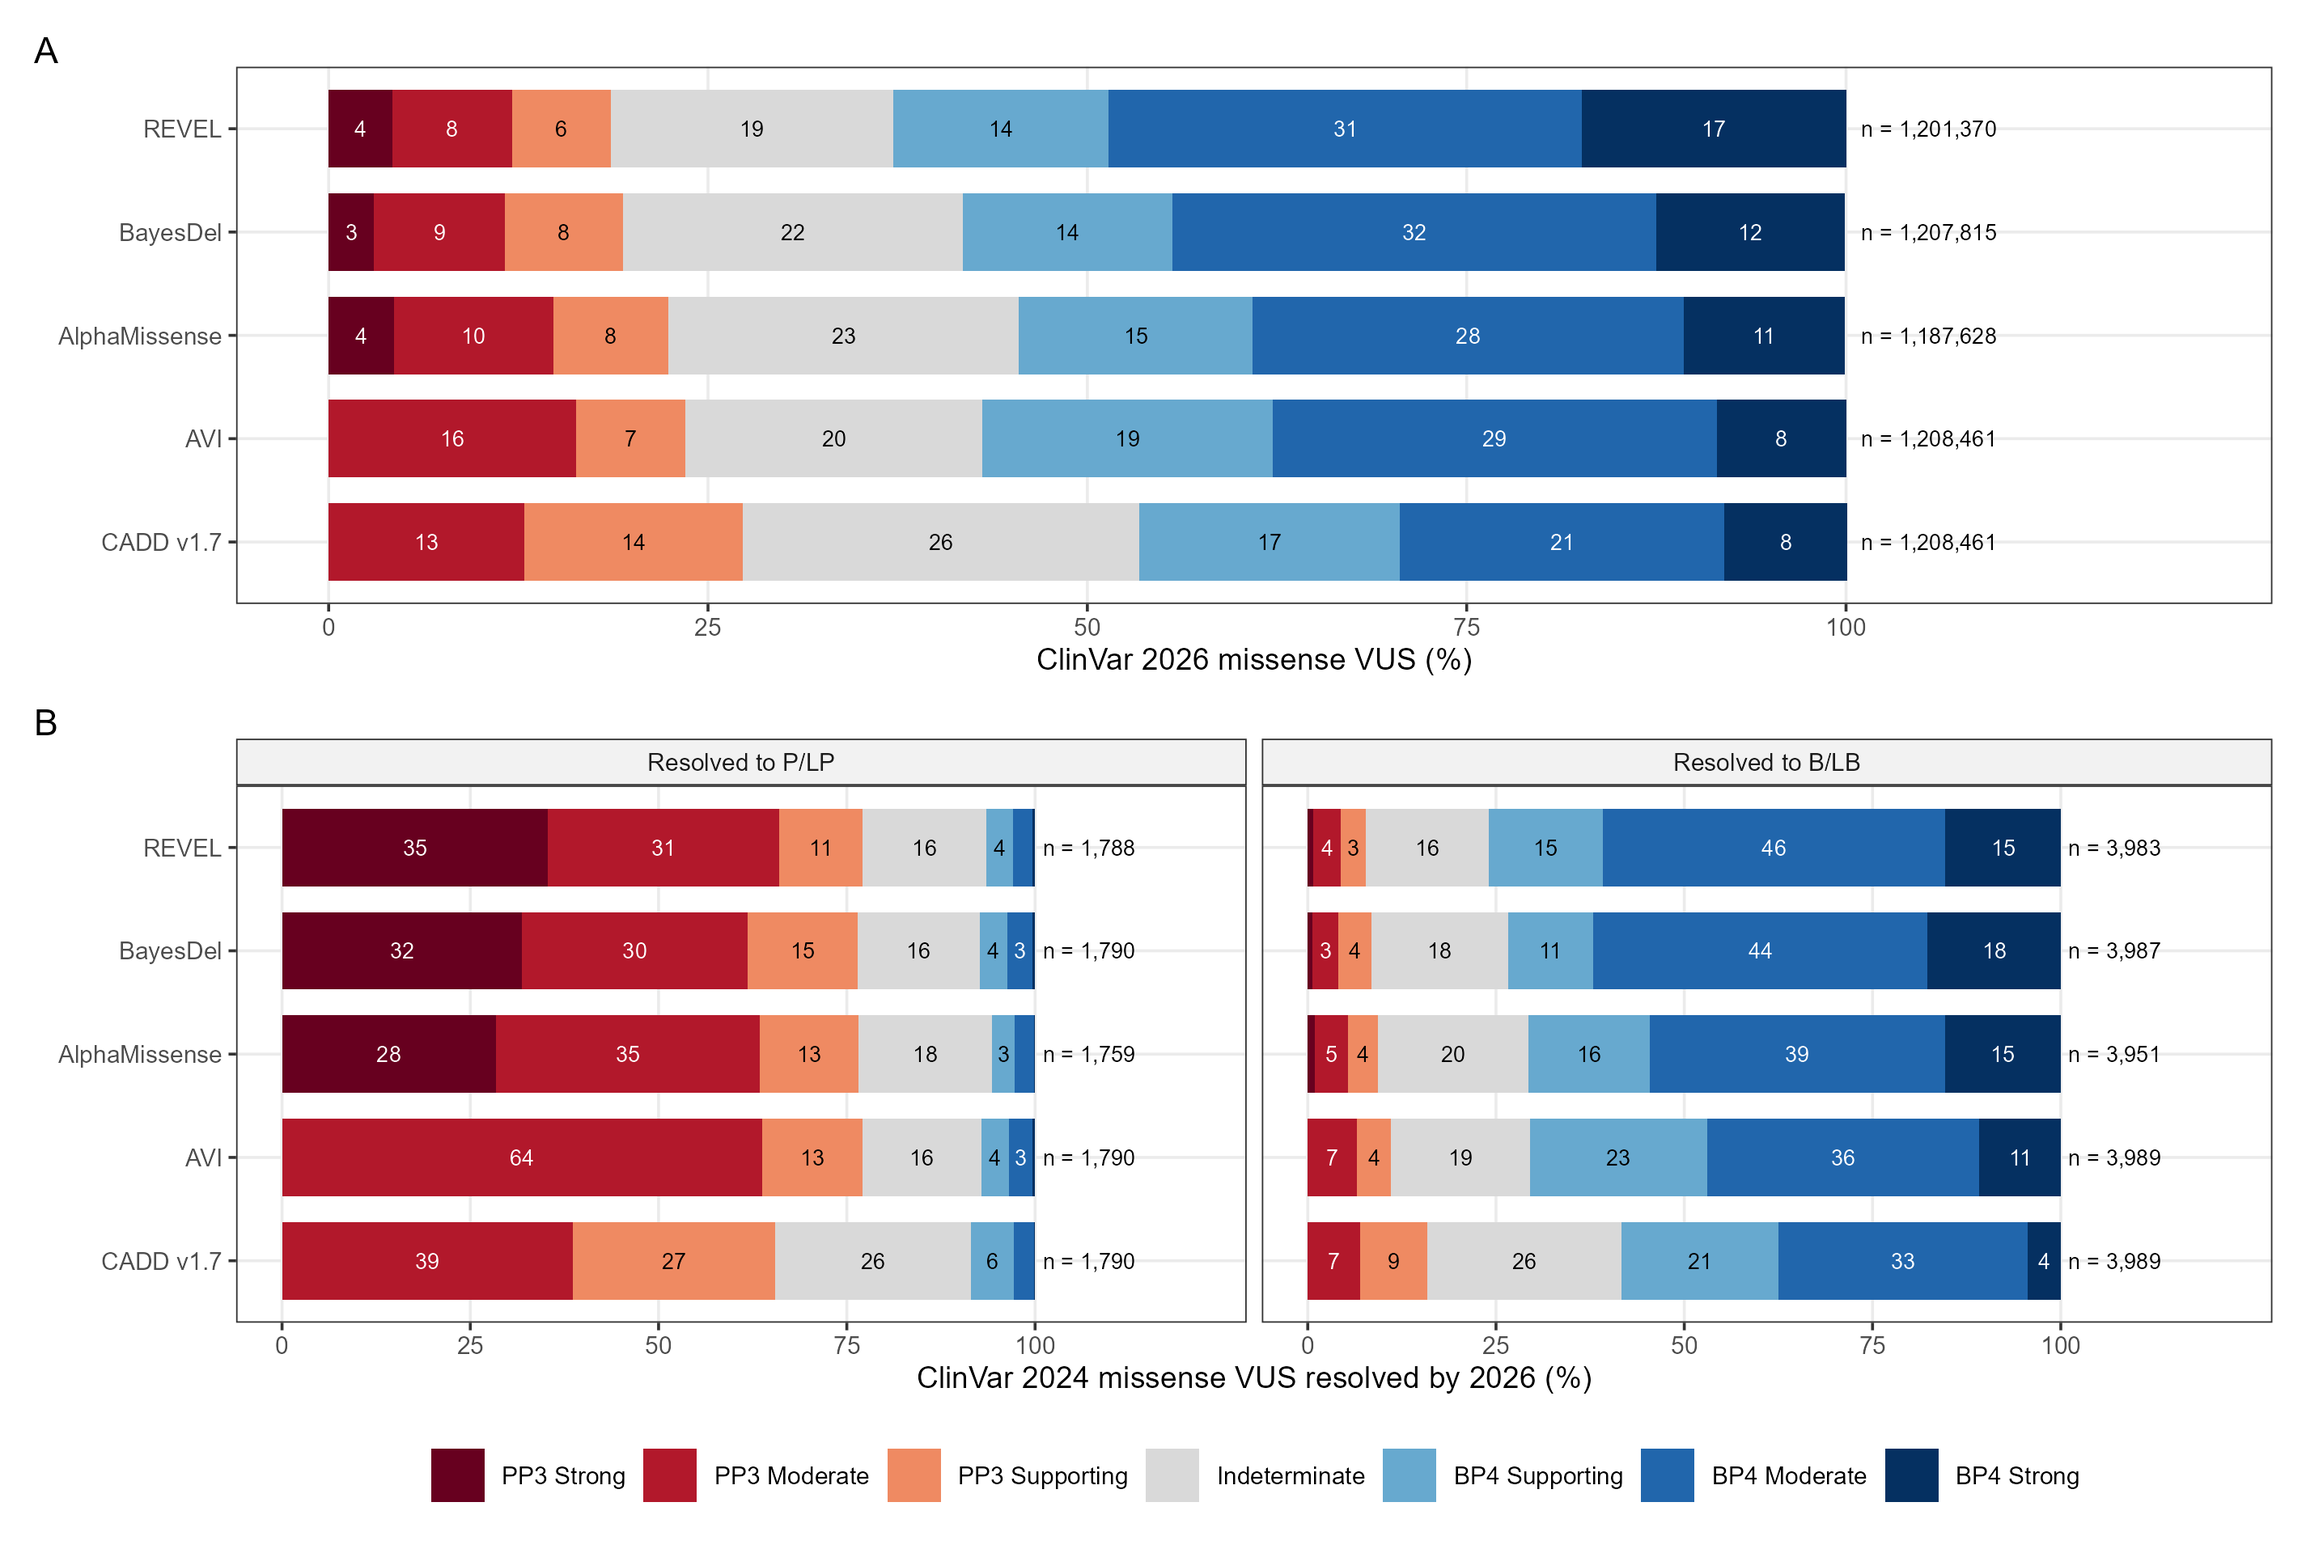
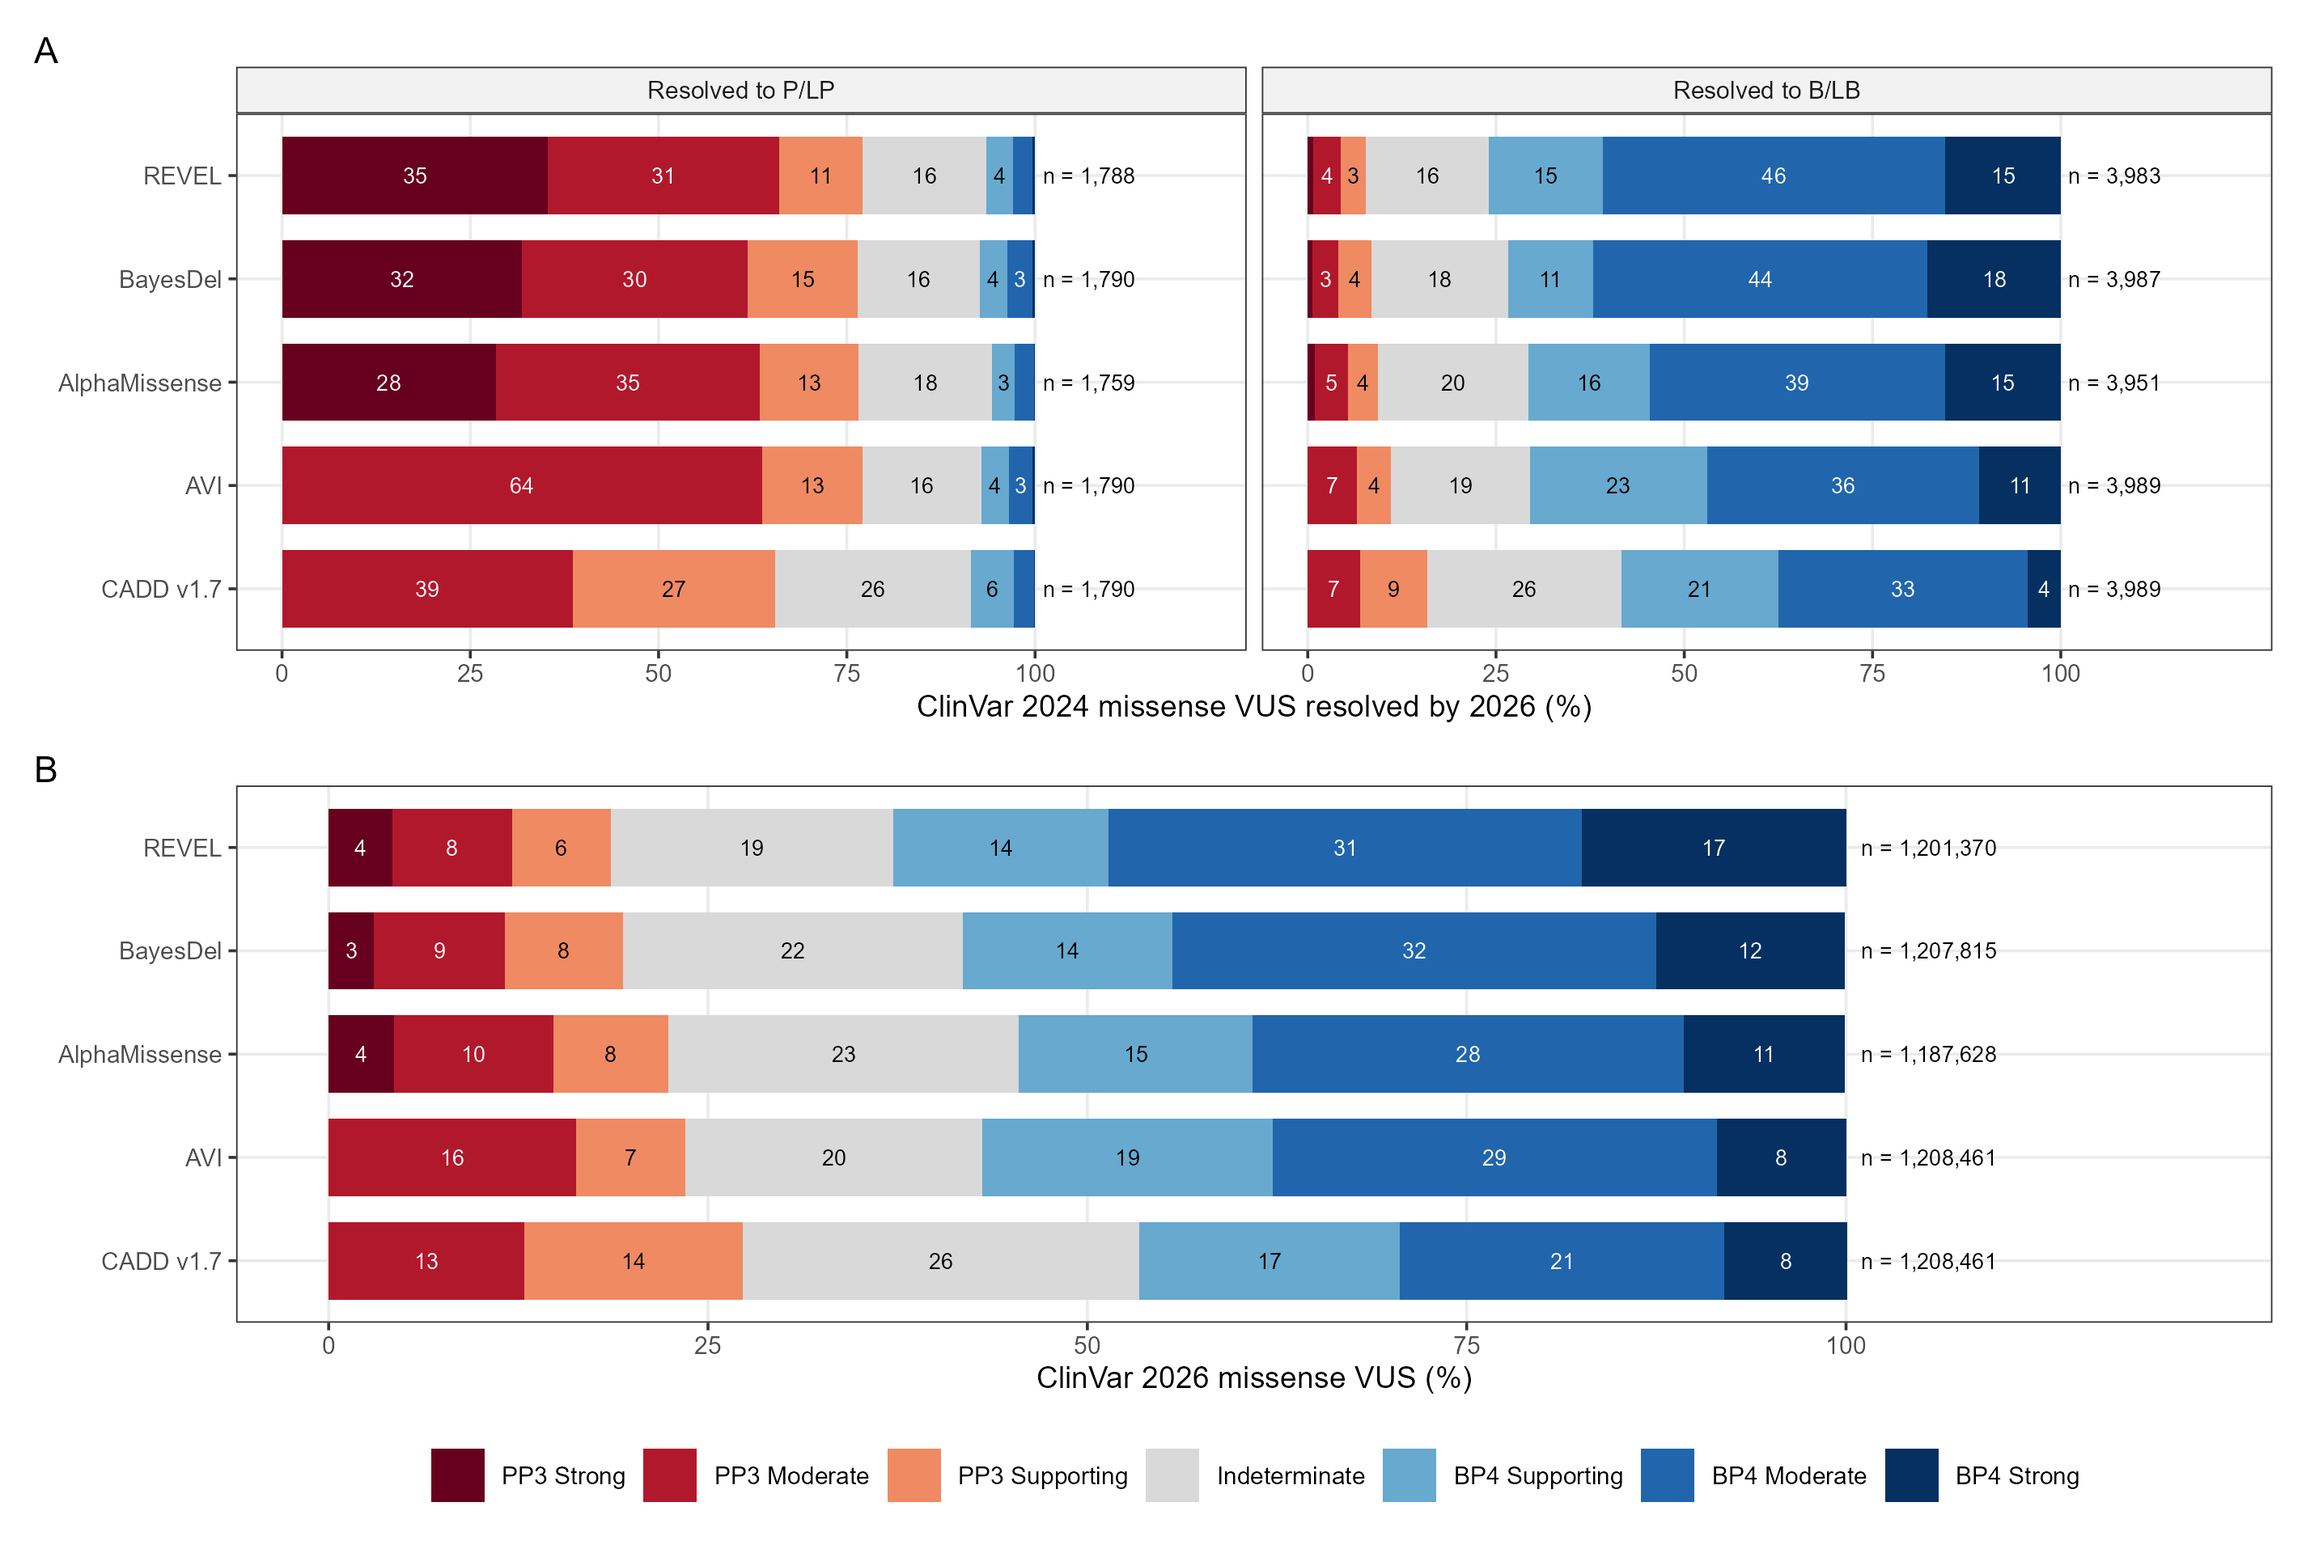
Figure 3: panels swapped to follow the order of citation
Panel A now shows the 2024 VUS resolved by 2026 and panel B the 2026 VUS,
matching the order in which the Results cite them. Script 44 re-frozen and
re-run; execution log and METHODS.md updated.

diff --git a/METHODS.md b/METHODS.md
@@ -502,7 +502,7 @@ repeating the computations.
 | 1 | Local posterior probability of CADD v1.7 PHRED and AVI Phred (main analysis, seed 20260925) | `figures/Fig1_cadd17_avi_calibration.{png,pdf}`; data `figures/data/Fig1_cadd17_avi_calibration/`; script `scripts/16_plot_figure1.R` | Done 2026-09-25 |
 | 2 (Figure 3 until manuscript v4) | Head-to-head comparison on the intersection set: AUROC and evidence levels of P/LP and B/LB variants, five predictors | `figures/Fig2_comparators.{png,pdf}`; data `figures/data/Fig2_comparators/`; script `scripts/36_plot_fig3_comparators.R` | Done 2026-09-27; renumbered 2026-10-04 |
 | Not in manuscript v6 (Figure 4 until v4, Figure S5 in v5; population analyses reserved for a separate study) | Population frequency of PP3-level missense SNVs: gnomAD group with highest AF; MCPS overall and Indigenous Mexican frequencies | `figures/FigS5_population.{png,pdf}`; data `figures/data/FigS5_population/`; script `scripts/37_plot_fig4_population.R` | Done 2026-09-27; moved to the supplement 2026-10-04 |
-| 3 (Figure 5 until manuscript v4, now panel A) | Computational evidence for ClinVar missense VUS, five predictors: (A) 2026 VUS, intersection thresholds; (B) 2024 VUS resolved by 2026, thresholds calibrated on the 2024 release (amendment A15) | `figures/Fig3_vus.{png,pdf}`; data `figures/data/Fig3_vus/`; script `scripts/44_plot_fig3_vus.R` (replaces `38_plot_fig5_vus.R`) | Done 2026-10-04 |
+| 3 (Figure 5 until manuscript v4; panel B since v9) | Computational evidence for ClinVar missense VUS, five predictors: (A) 2024 VUS resolved by 2026, thresholds calibrated on the 2024 release (amendment A15); (B) 2026 VUS, intersection thresholds (panels swapped 2026-10-29 to follow the order of citation) | `figures/Fig3_vus.{png,pdf}`; data `figures/data/Fig3_vus/`; script `scripts/44_plot_fig3_vus.R` (replaces `38_plot_fig5_vus.R`) | Done 2026-10-04 |
 | 4 | Missense-calibrated thresholds outside missense variation: likelihood ratios of the BP4 intervals and AUROC of CADD v1.7 and AVI per ClinVar region class (grayscale) | `figures/Fig4_noncoding.{png,pdf}`; data `figures/data/Fig4_noncoding/`; script `scripts/43_plot_fig_noncoding.R` | Done 2026-10-04 |
 | Table 2 (manuscript v5) | Calibrated evidence for VUS of January 2024 resolved by September 2026 (amendment A15); the former Table 2 (MAVE) is now Table S17 | `figures/Table2_vus_resolved.{tsv,md}`; data `figures/data/Table2_vus_resolved/`; script `scripts/45_make_table2_vus_resolved.R` | Done 2026-10-04 |
 | Table 4 (manuscript v7) | Expert-panel ClinVar missense VUS with concordant calibrated evidence, by gene (amendment A16); variant-level list in Table S19, genome-wide counts and transferred thresholds in Table S20 | `figures/Table4_vus_candidates.tsv`; data `calibration/results/v17_avi/vus_candidates/`; scripts `scripts/46_vus_reclassification_candidates.R`, `scripts/47_make_table4_vus_candidates.R` | Done 2026-10-29 |
